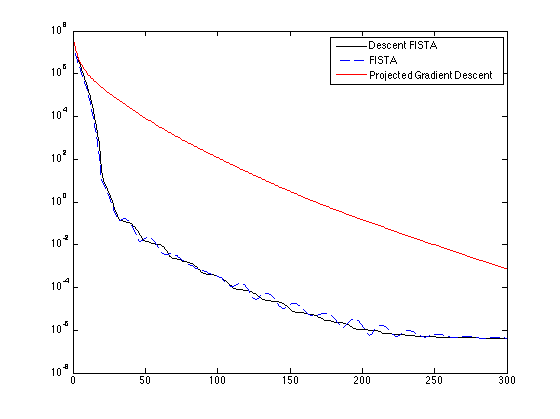
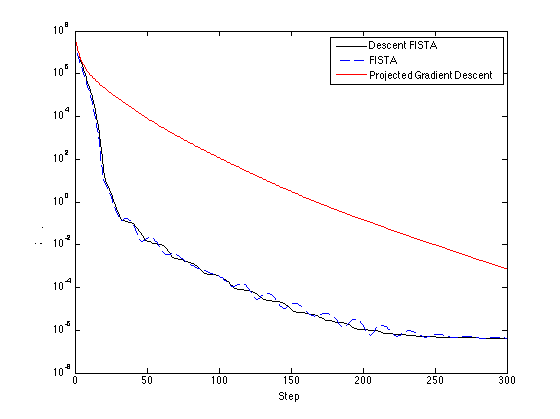
Add legends and labels

diff --git a/matlab/svm_algorithm/svm_algorithm_withfuncs.html b/matlab/svm_algorithm/svm_algorithm_withfuncs.html
@@ -65,7 +65,7 @@ table td { padding:7px 5px; text-align:left; vertical-align:top; border:1px soli
 
 
 
-  </style></head><body><div class="content"><h2>Contents</h2><div><ul><li><a href="#1">Leukemia</a></li><li><a href="#2">CVX</a></li><li><a href="#3">Fmincon</a></li><li><a href="#4">Projected Gradient Descent</a></li><li><a href="#5">FISTA</a></li><li><a href="#6">Descent FISTA</a></li><li><a href="#7">Nesterov's second method</a></li></ul><h2>Called Functions</h2><ul><li><a href="#cvx_begin">cvx_begin </a></li><li><a href="#cvx_end">cvx_end </a></li><li><a href="#cvx_solver">cvx_solver </a></li><li><a href="#evaluate_classification">evaluate_classification </a></li><li><a href="#proj_unit_box">proj_unit_box </a></li><li><a href="#svm_qp">svm_qp </a></li></ul></div><h2>Leukemia<a name="1"></a></h2><pre class="codeinput"><span class="keyword">global</span> lambda A
+  </style></head><body><div class="content"><h2>Contents</h2><div><ul><li><a href="#1">Leukemia</a></li><li><a href="#2">CVX</a></li><li><a href="#3">Fmincon</a></li><li><a href="#4">Projected Gradient Descent</a></li><li><a href="#5">FISTA</a></li><li><a href="#6">Descent FISTA</a></li><li><a href="#7">Nesterov's second method</a></li></ul><h2>Called Functions</h2><ul><li><a href="#cvx_begin">cvx_begin </a></li><li><a href="#cvx_end">cvx_end </a></li><li><a href="#cvx_solver">cvx_solver </a></li><li><a href="#evaluate_classification">evaluate_classification </a></li><li><a href="#proj_unit_box">proj_unit_box </a></li><li><a href="#svm_qp">svm_qp </a></li><li><a href="#saveTightFigure">saveTightFigure </a></li></ul></div><h2>Leukemia<a name="1"></a></h2><pre class="codeinput"><span class="keyword">global</span> lambda A
 rng(123);
 cvx_solver <span class="string">mosek</span>;
 leukemia = load(<span class="string">'./matlab_data/leukemia_train_and_test.mat'</span>);
@@ -128,11 +128,11 @@ Factor     - ML order time          : 0.00              GP order time          :
 Factor     - nonzeros before factor : 2.85e+05          after factor           : 2.86e+05        
 Factor     - dense dim.             : 40                flops                  : 1.29e+07        
 ITE PFEAS    DFEAS    GFEAS    PRSTATUS   POBJ              DOBJ              MU       TIME  
-0   1.6e+01  2.0e+00  3.6e+01  0.00e+00   -3.750000000e+01  0.000000000e+00   1.0e+00  0.10  
+0   1.6e+01  2.0e+00  3.6e+01  0.00e+00   -3.750000000e+01  0.000000000e+00   1.0e+00  0.09  
 1   8.0e-01  1.0e-01  1.8e+00  1.00e+00   -1.883875997e+00  -3.759317918e-04  5.0e-02  0.13  
 2   4.4e-02  5.5e-03  1.0e-01  1.01e+00   -1.023893505e-01  -5.188676780e-04  2.7e-03  0.15  
 3   9.4e-03  1.2e-03  2.2e-02  1.15e+00   -2.132232254e-02  -1.669205656e-03  5.9e-04  0.17  
-4   5.0e-03  6.2e-04  1.1e-02  1.32e+00   -1.137934439e-02  -2.254846722e-03  3.1e-04  0.19  
+4   5.0e-03  6.2e-04  1.1e-02  1.32e+00   -1.137934439e-02  -2.254846722e-03  3.1e-04  0.18  
 5   2.4e-03  3.0e-04  5.5e-03  1.29e+00   -6.335356796e-03  -2.432209080e-03  1.5e-04  0.20  
 6   8.5e-04  1.1e-04  1.9e-03  1.24e+00   -3.680339055e-03  -2.443549456e-03  5.3e-05  0.22  
 7   1.9e-04  2.3e-05  4.3e-04  1.16e+00   -2.679462869e-03  -2.428656524e-03  1.2e-05  0.24  
@@ -308,6 +308,8 @@ plot_data = [];
     plot_data = [plot_data; stats(i).step, stats(i).scale_f];
 <span class="keyword">end</span>
 semilogy(plot_data(:, 1), plot_data(:, 2));
+legend(<span class="string">'Projected Gradient Descent'</span>);
+xlabel(<span class="string">'Step'</span>); ylabel(<span class="string">'$\left ( f \left ( x^{(k)} \right ) - f^* \right ) / \left | f^* \right |$'</span>, <span class="string">'Interpreter'</span>,<span class="string">'latex'</span>);
 
 w = A' * alpha;
 predicted = B * w;
@@ -348,6 +350,7 @@ plot_data = [];
 <span class="keyword">end</span>
 figure; semilogy(plot_data(:, 1), plot_data(:, 2), <span class="string">'b--'</span>); hold <span class="string">on</span>
 semilogy(plot_data(:, 1), plot_data(:, 3), <span class="string">'r-'</span>); legend(<span class="string">'FISTA'</span>, <span class="string">'Projected Gradient Descent'</span>);
+xlabel(<span class="string">'Step'</span>); ylabel(<span class="string">'$\left ( f \left ( x^{(k)} \right ) - f^* \right ) / \left | f^* \right |$'</span>, <span class="string">'Interpreter'</span>,<span class="string">'latex'</span>);
 </pre><img vspace="5" hspace="5" src="svm_algorithm_02.png" alt=""> <h2>Descent FISTA<a name="6"></a></h2><pre class="codeinput">lambda = 1.0;
 all_ones = ones(n_train, 1);
 L = svds(A, 1)^2;
@@ -378,6 +381,7 @@ plot_data = [];
 figure; semilogy(plot_data(:, 1), plot_data(:, 4), <span class="string">'k-'</span>); hold <span class="string">on</span>
 semilogy(plot_data(:, 1), plot_data(:, 2), <span class="string">'b--'</span>); hold <span class="string">on</span>
 semilogy(plot_data(:, 1), plot_data(:, 3), <span class="string">'r-'</span>); legend(<span class="string">'Descent FISTA'</span>, <span class="string">'FISTA'</span>, <span class="string">'Projected Gradient Descent'</span>);
+xlabel(<span class="string">'Step'</span>); ylabel(<span class="string">'$\left ( f \left ( x^{(k)} \right ) - f^* \right ) / \left | f^* \right |$'</span>, <span class="string">'Interpreter'</span>,<span class="string">'latex'</span>);
 </pre><img vspace="5" hspace="5" src="svm_algorithm_03.png" alt=""> <h2>Nesterov's second method<a name="7"></a></h2><pre class="codeinput">lambda = 1.0;
 all_ones = ones(n_train, 1);
 L = svds(A, 1)^2;
@@ -401,10 +405,13 @@ plot_data = [];
     plot_data = [plot_data; fista_stats(i).step, fista_stats(i).scale_f, <span class="keyword">...</span>
         projected_gradient_descent_stats(i).scale_f, descent_fista_stats(i).scale_f, nesterov_stats(i).scale_f];
 <span class="keyword">end</span>
-figure; semilogy(plot_data(:, 1), plot_data(:, 5), <span class="string">'g-'</span>); hold <span class="string">on</span>
+
+h = figure; semilogy(plot_data(:, 1), plot_data(:, 5), <span class="string">'g-'</span>); hold <span class="string">on</span>
 semilogy(plot_data(:, 1), plot_data(:, 4), <span class="string">'k-'</span>); hold <span class="string">on</span>
 semilogy(plot_data(:, 1), plot_data(:, 2), <span class="string">'b--'</span>); hold <span class="string">on</span>
 semilogy(plot_data(:, 1), plot_data(:, 3), <span class="string">'r-'</span>); legend(<span class="string">'Nesterov'</span>, <span class="string">'Descent FISTA'</span>, <span class="string">'FISTA'</span>, <span class="string">'Projected Gradient Descent'</span>);
+xlabel(<span class="string">'Step'</span>); ylabel(<span class="string">'$\left ( f \left ( x^{(k)} \right ) - f^* \right ) / \left | f^* \right |$'</span>, <span class="string">'Interpreter'</span>,<span class="string">'latex'</span>);
+saveTightFigure(h, <span class="string">'plots/a.pdf'</span>);
 </pre><img vspace="5" hspace="5" src="svm_algorithm_04.png" alt=""> <p class="footer"><br><a href="http://www.mathworks.com/products/matlab/">Published with MATLAB&reg; R2013a</a><br></p></div><!--
 ##### SOURCE BEGIN #####
 %% Leukemia
@@ -465,6 +472,8 @@ for i = 1 : size(stats, 1)
     plot_data = [plot_data; stats(i).step, stats(i).scale_f];
 end
 semilogy(plot_data(:, 1), plot_data(:, 2));
+legend('Projected Gradient Descent');
+xlabel('Step'); ylabel('$\left ( f \left ( x^{(k)} \right ) - f^* \right ) / \left | f^* \right |$', 'Interpreter','latex');
 
 w = A' * alpha;
 predicted = B * w;
@@ -498,6 +507,7 @@ for i = 1 : size(stats, 1)
 end
 figure; semilogy(plot_data(:, 1), plot_data(:, 2), 'bREPLACE_WITH_DASH_DASH'); hold on
 semilogy(plot_data(:, 1), plot_data(:, 3), 'r-'); legend('FISTA', 'Projected Gradient Descent');
+xlabel('Step'); ylabel('$\left ( f \left ( x^{(k)} \right ) - f^* \right ) / \left | f^* \right |$', 'Interpreter','latex');
 
 %% Descent FISTA
 lambda = 1.0;
@@ -530,6 +540,7 @@ end
 figure; semilogy(plot_data(:, 1), plot_data(:, 4), 'k-'); hold on
 semilogy(plot_data(:, 1), plot_data(:, 2), 'bREPLACE_WITH_DASH_DASH'); hold on
 semilogy(plot_data(:, 1), plot_data(:, 3), 'r-'); legend('Descent FISTA', 'FISTA', 'Projected Gradient Descent');
+xlabel('Step'); ylabel('$\left ( f \left ( x^{(k)} \right ) - f^* \right ) / \left | f^* \right |$', 'Interpreter','latex');
 
 %% Nesterov's second method
 lambda = 1.0;
@@ -555,11 +566,13 @@ for i = 1 : size(stats, 1)
     plot_data = [plot_data; fista_stats(i).step, fista_stats(i).scale_f, ...
         projected_gradient_descent_stats(i).scale_f, descent_fista_stats(i).scale_f, nesterov_stats(i).scale_f];
 end
-figure; semilogy(plot_data(:, 1), plot_data(:, 5), 'g-'); hold on
+
+h = figure; semilogy(plot_data(:, 1), plot_data(:, 5), 'g-'); hold on
 semilogy(plot_data(:, 1), plot_data(:, 4), 'k-'); hold on
 semilogy(plot_data(:, 1), plot_data(:, 2), 'bREPLACE_WITH_DASH_DASH'); hold on
 semilogy(plot_data(:, 1), plot_data(:, 3), 'r-'); legend('Nesterov', 'Descent FISTA', 'FISTA', 'Projected Gradient Descent');
-
+xlabel('Step'); ylabel('$\left ( f \left ( x^{(k)} \right ) - f^* \right ) / \left | f^* \right |$', 'Interpreter','latex');
+saveTightFigure(h, 'plots/a.pdf');
 ##### SOURCE END #####
 --></body></html>
 <a name="cvx_begin"></a>
@@ -1453,6 +1466,102 @@ table td { padding:7px 5px; text-align:left; vertical-align:top; border:1px soli
         g = A * A' * alpha - lambda * ones(size(alpha));
     <span class="keyword">end</span>
 <span class="keyword">end</span>
+</pre><p class="footer"><br><a href="http://www.mathworks.com/products/matlab/">Published with MATLAB&reg; R2013a</a><br></p></div><!--
+\n
+--></body></html>
+<a name="saveTightFigure"></a>
+
+<!DOCTYPE html
+  PUBLIC "-//W3C//DTD HTML 4.01 Transitional//EN">
+<html><head>
+      <meta http-equiv="Content-Type" content="text/html; charset=utf-8">
+   <!--
+This HTML was auto-generated from MATLAB code.
+To make changes, update the MATLAB code and republish this document.
+      --><title>saveTightFigure</title><meta name="generator" content="MATLAB 8.1"><link rel="schema.DC" href="http://purl.org/dc/elements/1.1/"><meta name="DC.date" content="2014-08-13"><meta name="DC.source" content="saveTightFigure.m"><style type="text/css">
+html,body,div,span,applet,object,iframe,h1,h2,h3,h4,h5,h6,p,blockquote,pre,a,abbr,acronym,address,big,cite,code,del,dfn,em,font,img,ins,kbd,q,s,samp,small,strike,strong,sub,sup,tt,var,b,u,i,center,dl,dt,dd,ol,ul,li,fieldset,form,label,legend,table,caption,tbody,tfoot,thead,tr,th,td{margin:0;padding:0;border:0;outline:0;font-size:100%;vertical-align:baseline;background:transparent}body{line-height:1}ol,ul{list-style:none}blockquote,q{quotes:none}blockquote:before,blockquote:after,q:before,q:after{content:'';content:none}:focus{outine:0}ins{text-decoration:none}del{text-decoration:line-through}table{border-collapse:collapse;border-spacing:0}
+
+html { min-height:100%; margin-bottom:1px; }
+html body { height:100%; margin:0px; font-family:Arial, Helvetica, sans-serif; font-size:10px; color:#000; line-height:140%; background:#fff none; overflow-y:scroll; }
+html body td { vertical-align:top; text-align:left; }
+
+h1 { padding:0px; margin:0px 0px 25px; font-family:Arial, Helvetica, sans-serif; font-size:1.5em; color:#d55000; line-height:100%; font-weight:normal; }
+h2 { padding:0px; margin:0px 0px 8px; font-family:Arial, Helvetica, sans-serif; font-size:1.2em; color:#000; font-weight:bold; line-height:140%; border-bottom:1px solid #d6d4d4; display:block; }
+h3 { padding:0px; margin:0px 0px 5px; font-family:Arial, Helvetica, sans-serif; font-size:1.1em; color:#000; font-weight:bold; line-height:140%; }
+
+a { color:#005fce; text-decoration:none; }
+a:hover { color:#005fce; text-decoration:underline; }
+a:visited { color:#004aa0; text-decoration:none; }
+
+p { padding:0px; margin:0px 0px 20px; }
+img { padding:0px; margin:0px 0px 20px; border:none; }
+p img, pre img, tt img, li img { margin-bottom:0px; } 
+
+ul { padding:0px; margin:0px 0px 20px 23px; list-style:square; }
+ul li { padding:0px; margin:0px 0px 7px 0px; }
+ul li ul { padding:5px 0px 0px; margin:0px 0px 7px 23px; }
+ul li ol li { list-style:decimal; }
+ol { padding:0px; margin:0px 0px 20px 0px; list-style:decimal; }
+ol li { padding:0px; margin:0px 0px 7px 23px; list-style-type:decimal; }
+ol li ol { padding:5px 0px 0px; margin:0px 0px 7px 0px; }
+ol li ol li { list-style-type:lower-alpha; }
+ol li ul { padding-top:7px; }
+ol li ul li { list-style:square; }
+
+.content { font-size:1.2em; line-height:140%; padding: 20px; }
+
+pre, tt, code { font-size:12px; }
+pre { margin:0px 0px 20px; }
+pre.error { color:red; }
+pre.codeinput { padding:10px; border:1px solid #d3d3d3; background:#f7f7f7; }
+pre.codeoutput { padding:10px 11px; margin:0px 0px 20px; color:#4c4c4c; }
+
+@media print { pre.codeinput, pre.codeoutput { word-wrap:break-word; width:100%; } }
+
+span.keyword { color:#0000FF }
+span.comment { color:#228B22 }
+span.string { color:#A020F0 }
+span.untermstring { color:#B20000 }
+span.syscmd { color:#B28C00 }
+
+.footer { width:auto; padding:10px 0px; margin:25px 0px 0px; border-top:1px dotted #878787; font-size:0.8em; line-height:140%; font-style:italic; color:#878787; text-align:left; float:none; }
+.footer p { margin:0px; }
+.footer a { color:#878787; }
+.footer a:hover { color:#878787; text-decoration:underline; }
+.footer a:visited { color:#878787; }
+
+table th { padding:7px 5px; text-align:left; vertical-align:middle; border: 1px solid #d6d4d4; font-weight:bold; }
+table td { padding:7px 5px; text-align:left; vertical-align:top; border:1px solid #d6d4d4; }
+
+
+
+
+
+  </style></head><body><div class="content"><pre class="codeinput"><span class="keyword">function</span> saveTightFigure(h,outfilename)
+<span class="comment">% SAVETIGHTFIGURE(H,OUTFILENAME) Saves figure H in file OUTFILENAME without</span>
+<span class="comment">%   the white space around it.</span>
+<span class="comment">%</span>
+<span class="comment">% by ``a grad student"</span>
+<span class="comment">% http://tipstrickshowtos.blogspot.com/2010/08/how-to-get-rid-of-white-margin-in.html</span>
+
+<span class="comment">% get the current axes</span>
+ax = get(h, <span class="string">'CurrentAxes'</span>);
+
+<span class="comment">% make it tight</span>
+ti = get(ax,<span class="string">'TightInset'</span>);
+set(ax,<span class="string">'Position'</span>,[ti(1) ti(2) 1-ti(3)-ti(1) 1-ti(4)-ti(2)]);
+
+<span class="comment">% adjust the papersize</span>
+set(ax,<span class="string">'units'</span>,<span class="string">'centimeters'</span>);
+pos = get(ax,<span class="string">'Position'</span>);
+ti = get(ax,<span class="string">'TightInset'</span>);
+set(h, <span class="string">'PaperUnits'</span>,<span class="string">'centimeters'</span>);
+set(h, <span class="string">'PaperSize'</span>, [pos(3)+ti(1)+ti(3) pos(4)+ti(2)+ti(4)]);
+set(h, <span class="string">'PaperPositionMode'</span>, <span class="string">'manual'</span>);
+set(h, <span class="string">'PaperPosition'</span>,[0 0  pos(3)+ti(1)+ti(3) pos(4)+ti(2)+ti(4)]);
+
+<span class="comment">% save it</span>
+saveas(h,outfilename);
 </pre><p class="footer"><br><a href="http://www.mathworks.com/products/matlab/">Published with MATLAB&reg; R2013a</a><br></p></div><!--
 \n
 --></body></html>

diff --git a/matlab/svm_algorithm/svm_algorithm.html b/matlab/svm_algorithm/svm_algorithm.html
@@ -128,11 +128,11 @@ Factor     - ML order time          : 0.00              GP order time          :
 Factor     - nonzeros before factor : 2.85e+05          after factor           : 2.86e+05        
 Factor     - dense dim.             : 40                flops                  : 1.29e+07        
 ITE PFEAS    DFEAS    GFEAS    PRSTATUS   POBJ              DOBJ              MU       TIME  
-0   1.6e+01  2.0e+00  3.6e+01  0.00e+00   -3.750000000e+01  0.000000000e+00   1.0e+00  0.10  
+0   1.6e+01  2.0e+00  3.6e+01  0.00e+00   -3.750000000e+01  0.000000000e+00   1.0e+00  0.09  
 1   8.0e-01  1.0e-01  1.8e+00  1.00e+00   -1.883875997e+00  -3.759317918e-04  5.0e-02  0.13  
 2   4.4e-02  5.5e-03  1.0e-01  1.01e+00   -1.023893505e-01  -5.188676780e-04  2.7e-03  0.15  
 3   9.4e-03  1.2e-03  2.2e-02  1.15e+00   -2.132232254e-02  -1.669205656e-03  5.9e-04  0.17  
-4   5.0e-03  6.2e-04  1.1e-02  1.32e+00   -1.137934439e-02  -2.254846722e-03  3.1e-04  0.19  
+4   5.0e-03  6.2e-04  1.1e-02  1.32e+00   -1.137934439e-02  -2.254846722e-03  3.1e-04  0.18  
 5   2.4e-03  3.0e-04  5.5e-03  1.29e+00   -6.335356796e-03  -2.432209080e-03  1.5e-04  0.20  
 6   8.5e-04  1.1e-04  1.9e-03  1.24e+00   -3.680339055e-03  -2.443549456e-03  5.3e-05  0.22  
 7   1.9e-04  2.3e-05  4.3e-04  1.16e+00   -2.679462869e-03  -2.428656524e-03  1.2e-05  0.24  
@@ -308,6 +308,8 @@ plot_data = [];
     plot_data = [plot_data; stats(i).step, stats(i).scale_f];
 <span class="keyword">end</span>
 semilogy(plot_data(:, 1), plot_data(:, 2));
+legend(<span class="string">'Projected Gradient Descent'</span>);
+xlabel(<span class="string">'Step'</span>); ylabel(<span class="string">'$\left ( f \left ( x^{(k)} \right ) - f^* \right ) / \left | f^* \right |$'</span>, <span class="string">'Interpreter'</span>,<span class="string">'latex'</span>);
 
 w = A' * alpha;
 predicted = B * w;
@@ -348,6 +350,7 @@ plot_data = [];
 <span class="keyword">end</span>
 figure; semilogy(plot_data(:, 1), plot_data(:, 2), <span class="string">'b--'</span>); hold <span class="string">on</span>
 semilogy(plot_data(:, 1), plot_data(:, 3), <span class="string">'r-'</span>); legend(<span class="string">'FISTA'</span>, <span class="string">'Projected Gradient Descent'</span>);
+xlabel(<span class="string">'Step'</span>); ylabel(<span class="string">'$\left ( f \left ( x^{(k)} \right ) - f^* \right ) / \left | f^* \right |$'</span>, <span class="string">'Interpreter'</span>,<span class="string">'latex'</span>);
 </pre><img vspace="5" hspace="5" src="svm_algorithm_02.png" alt=""> <h2>Descent FISTA<a name="6"></a></h2><pre class="codeinput">lambda = 1.0;
 all_ones = ones(n_train, 1);
 L = svds(A, 1)^2;
@@ -378,6 +381,7 @@ plot_data = [];
 figure; semilogy(plot_data(:, 1), plot_data(:, 4), <span class="string">'k-'</span>); hold <span class="string">on</span>
 semilogy(plot_data(:, 1), plot_data(:, 2), <span class="string">'b--'</span>); hold <span class="string">on</span>
 semilogy(plot_data(:, 1), plot_data(:, 3), <span class="string">'r-'</span>); legend(<span class="string">'Descent FISTA'</span>, <span class="string">'FISTA'</span>, <span class="string">'Projected Gradient Descent'</span>);
+xlabel(<span class="string">'Step'</span>); ylabel(<span class="string">'$\left ( f \left ( x^{(k)} \right ) - f^* \right ) / \left | f^* \right |$'</span>, <span class="string">'Interpreter'</span>,<span class="string">'latex'</span>);
 </pre><img vspace="5" hspace="5" src="svm_algorithm_03.png" alt=""> <h2>Nesterov's second method<a name="7"></a></h2><pre class="codeinput">lambda = 1.0;
 all_ones = ones(n_train, 1);
 L = svds(A, 1)^2;
@@ -401,10 +405,13 @@ plot_data = [];
     plot_data = [plot_data; fista_stats(i).step, fista_stats(i).scale_f, <span class="keyword">...</span>
         projected_gradient_descent_stats(i).scale_f, descent_fista_stats(i).scale_f, nesterov_stats(i).scale_f];
 <span class="keyword">end</span>
-figure; semilogy(plot_data(:, 1), plot_data(:, 5), <span class="string">'g-'</span>); hold <span class="string">on</span>
+
+h = figure; semilogy(plot_data(:, 1), plot_data(:, 5), <span class="string">'g-'</span>); hold <span class="string">on</span>
 semilogy(plot_data(:, 1), plot_data(:, 4), <span class="string">'k-'</span>); hold <span class="string">on</span>
 semilogy(plot_data(:, 1), plot_data(:, 2), <span class="string">'b--'</span>); hold <span class="string">on</span>
 semilogy(plot_data(:, 1), plot_data(:, 3), <span class="string">'r-'</span>); legend(<span class="string">'Nesterov'</span>, <span class="string">'Descent FISTA'</span>, <span class="string">'FISTA'</span>, <span class="string">'Projected Gradient Descent'</span>);
+xlabel(<span class="string">'Step'</span>); ylabel(<span class="string">'$\left ( f \left ( x^{(k)} \right ) - f^* \right ) / \left | f^* \right |$'</span>, <span class="string">'Interpreter'</span>,<span class="string">'latex'</span>);
+saveTightFigure(h, <span class="string">'plots/a.pdf'</span>);
 </pre><img vspace="5" hspace="5" src="svm_algorithm_04.png" alt=""> <p class="footer"><br><a href="http://www.mathworks.com/products/matlab/">Published with MATLAB&reg; R2013a</a><br></p></div><!--
 ##### SOURCE BEGIN #####
 %% Leukemia
@@ -465,6 +472,8 @@ for i = 1 : size(stats, 1)
     plot_data = [plot_data; stats(i).step, stats(i).scale_f];
 end
 semilogy(plot_data(:, 1), plot_data(:, 2));
+legend('Projected Gradient Descent');
+xlabel('Step'); ylabel('$\left ( f \left ( x^{(k)} \right ) - f^* \right ) / \left | f^* \right |$', 'Interpreter','latex');
 
 w = A' * alpha;
 predicted = B * w;
@@ -498,6 +507,7 @@ for i = 1 : size(stats, 1)
 end
 figure; semilogy(plot_data(:, 1), plot_data(:, 2), 'bREPLACE_WITH_DASH_DASH'); hold on
 semilogy(plot_data(:, 1), plot_data(:, 3), 'r-'); legend('FISTA', 'Projected Gradient Descent');
+xlabel('Step'); ylabel('$\left ( f \left ( x^{(k)} \right ) - f^* \right ) / \left | f^* \right |$', 'Interpreter','latex');
 
 %% Descent FISTA
 lambda = 1.0;
@@ -530,6 +540,7 @@ end
 figure; semilogy(plot_data(:, 1), plot_data(:, 4), 'k-'); hold on
 semilogy(plot_data(:, 1), plot_data(:, 2), 'bREPLACE_WITH_DASH_DASH'); hold on
 semilogy(plot_data(:, 1), plot_data(:, 3), 'r-'); legend('Descent FISTA', 'FISTA', 'Projected Gradient Descent');
+xlabel('Step'); ylabel('$\left ( f \left ( x^{(k)} \right ) - f^* \right ) / \left | f^* \right |$', 'Interpreter','latex');
 
 %% Nesterov's second method
 lambda = 1.0;
@@ -555,10 +566,12 @@ for i = 1 : size(stats, 1)
     plot_data = [plot_data; fista_stats(i).step, fista_stats(i).scale_f, ...
         projected_gradient_descent_stats(i).scale_f, descent_fista_stats(i).scale_f, nesterov_stats(i).scale_f];
 end
-figure; semilogy(plot_data(:, 1), plot_data(:, 5), 'g-'); hold on
+
+h = figure; semilogy(plot_data(:, 1), plot_data(:, 5), 'g-'); hold on
 semilogy(plot_data(:, 1), plot_data(:, 4), 'k-'); hold on
 semilogy(plot_data(:, 1), plot_data(:, 2), 'bREPLACE_WITH_DASH_DASH'); hold on
 semilogy(plot_data(:, 1), plot_data(:, 3), 'r-'); legend('Nesterov', 'Descent FISTA', 'FISTA', 'Projected Gradient Descent');
-
+xlabel('Step'); ylabel('$\left ( f \left ( x^{(k)} \right ) - f^* \right ) / \left | f^* \right |$', 'Interpreter','latex');
+saveTightFigure(h, 'plots/a.pdf');
 ##### SOURCE END #####
 --></body></html>
